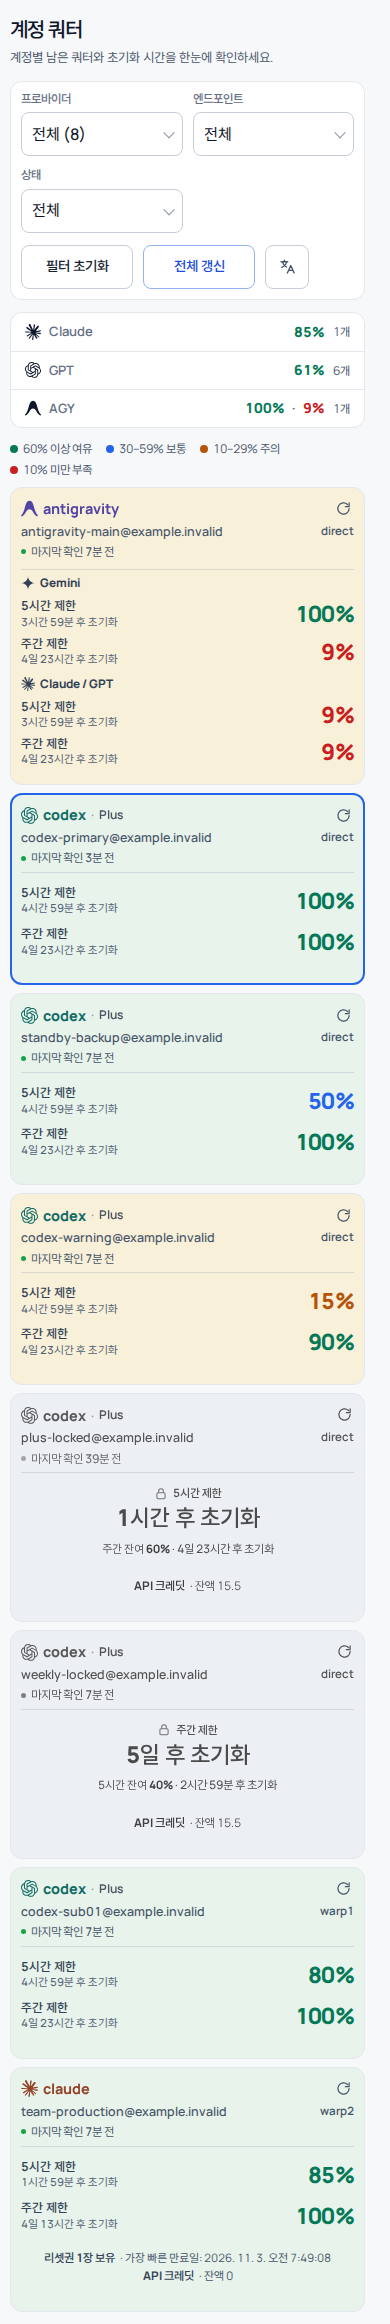
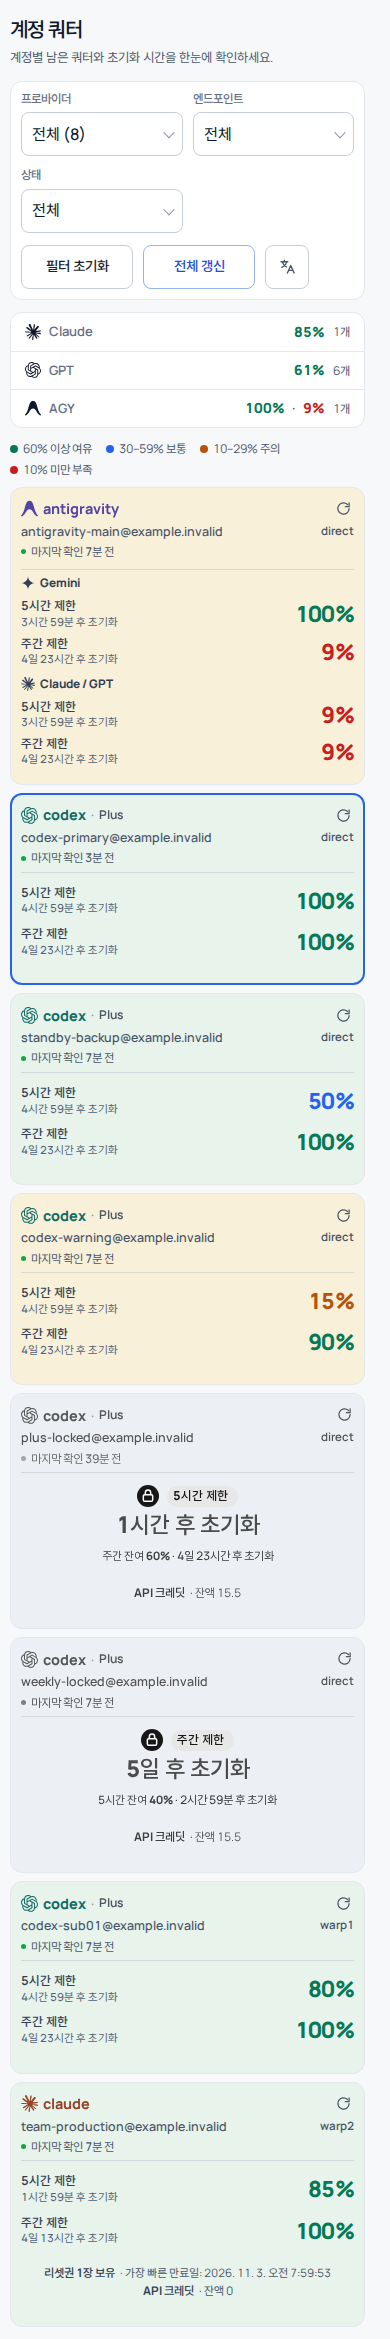
feat(dashboard): padlock badge marks exhausted limits, no repeated provider name
- locked limits show a filled padlock badge + the limit name instead of 'antigravity · weekly limit'
  (the card header already names the provider); only the Claude/GPT section names its family
- antigravity locked badge is red; GPT/Claude locked cards stay grayscale, so their badge is a dark
  padlock that reads as locked without colour
- tests: provider name must not repeat in the visible lock title; padlock badge may be larger than 14px
- README screenshots refreshed

diff --git a/internal/dashboard/style.css b/internal/dashboard/style.css
@@ -611,3 +611,27 @@
   .ag-limit-label, .quota-value-label { grid-column: 1; grid-row: 1; align-self: end; font-size: 0.78rem; font-weight: 650; color: #334155; line-height: 1.25; }
   .ag-limit-reset, .quota-value-reset { grid-column: 1; grid-row: 2; align-self: start; text-align: left; white-space: nowrap; font-size: 0.7rem; line-height: 1.3; }
   .ag-limit-value, .quota-value-number { grid-column: 2; grid-row: 1 / span 2; width: var(--pct-col-w); min-width: 0; font-size: 1.4rem; line-height: 1.3; text-align: right; align-self: center; justify-self: end; }
+
+  /* ===================== Locked state: the padlock is the headline =====================
+     A filled badge (padlock + limit name) tells at a glance that this limit is exhausted. The provider
+     name is not repeated (the card header has it); only the Claude/GPT section names its family. */
+  .ag-family-lock-title, .quota-lock-title { display: inline-flex; align-items: center; justify-content: center; gap: 8px; flex-wrap: wrap; }
+  .ag-family-lock-title .ag-lock-limit, .quota-lock-title > span { display: inline-flex; align-items: center; gap: 6px; padding: 3px 10px 3px 6px; border-radius: 999px; background: #fee2e2; color: #991b1b; font-size: 0.78rem; font-weight: 750; line-height: 1.2; }
+  .ag-family-lock-title .ag-lock-padlock, .quota-lock-title .quota-lock-icon { display: inline-block; width: 16px; height: 16px; padding: 3px; box-sizing: content-box; border-radius: 50%; background: #dc2626; color: #fff; stroke-width: 2.2; flex: 0 0 auto; }
+  .ag-family-lock-title { flex-direction: row; }
+  .ag-family-lock-title .ag-lock-padlock { order: -1; margin-right: -2px; position: relative; z-index: 1; }
+  .ag-family-lock-title .ag-lock-family { display: inline-flex; align-items: center; gap: 4px; color: #475569; font-size: 0.74rem; font-weight: 650; }
+  .ag-family-lock-title .ag-lock-family .ag-family-icon { display: inline-block; width: 13px; height: 13px; }
+  /* GPT/Claude lock: padlock icon sits inside the same red pill */
+  .quota-lock-title .quota-lock-icon { margin-right: 0; }
+  .ag-family-lock-time, .quota-lock-time { margin-top: 2px; }
+
+  /* GPT/Claude locked cards keep their regions grayscale (a CSS filter also greys descendants), so the
+     padlock badge cannot stay red inside them. Instead of loosening that rule, draw the badge colour with
+     a contrast the grayscale cannot hide: a dark filled circle + dark pill with white padlock, which reads
+     as "locked" in gray too, while antigravity (filter-free body) shows the red version. */
+  .account-card[data-locked="true"]:not([data-provider="antigravity"]) .quota-lock-title > span { background: #e2e8f0; color: #0f172a; }
+  .account-card[data-locked="true"]:not([data-provider="antigravity"]) .quota-lock-title .quota-lock-icon { background: #0f172a; color: #fff; }
+  .account-card[data-locked="true"] .quota-lock-time, .account-card[data-locked="true"] .quota-lock-weekly,
+  .account-card[data-locked="true"] .quota-lock-weekly-summary { color: #334155; }
+  .account-card[data-locked="true"]:not([data-provider="antigravity"]) .quota-lock-time { color: #475569; }

diff --git a/internal/dashboard/app.js b/internal/dashboard/app.js
@@ -1828,7 +1828,9 @@ function renderAGFamilySection(family, windows) {
       context = '<div class="ag-family-lock-context" role="group" aria-label="'+esc(shortAria)+'">'+esc(t('q.fiveLeft'))+' <strong>'+esc(shortValue)+'</strong><span aria-hidden="true"> · </span><span class="quota-reset-primary">'+esc(shortCountdown)+'</span></div>';
     }
     var padlockSvg = '<svg class="ag-lock-padlock" viewBox="0 0 24 24" fill="none" stroke="currentColor" stroke-width="1.8" aria-hidden="true"><rect x="5" y="10" width="14" height="10" rx="2"></rect><path d="M8 10V7a4 4 0 0 1 8 0v3"></path></svg>';
-    var lockTitle = padlockSvg+icon+'<span>'+esc(familyLabel)+' · '+limitName+'</span>';
+    // The card header already says "antigravity": repeat the family only for the Claude/GPT section, never the provider name.
+    var lockFamily = family === 'claude' ? '<span class="ag-lock-family">'+icon+'<span>Claude / GPT</span></span>' : '';
+    var lockTitle = padlockSvg+'<span class="ag-lock-limit">'+esc(limitName)+'</span>'+lockFamily;
     return '<section class="ag-family-section is-locked" aria-label="'+esc(sectionAria)+'"><div class="ag-family-lock" role="status" aria-label="'+esc(lockAria)+'">'
       +'<div class="ag-family-lock-title">'+lockTitle+'</div><div class="ag-family-lock-time '+roleClass+'">'+esc(timeText)+'</div>'+context+'</div></section>';
   }

diff --git a/internal/plugin/plugin_test.go b/internal/plugin/plugin_test.go
@@ -2224,9 +2224,11 @@ const lockedWindows = [
 const lockedSection = ctx.renderAGFamilySection('gemini', lockedWindows);
 assert(lockedSection.indexOf('is-locked') !== -1,          'locked: is-locked class');
 assert(lockedSection.indexOf('aria-label="안티그래비티 쿼터"') !== -1, 'locked: aria-label preserved');
-assert(lockedSection.indexOf('>안티그래비티<') !== -1,           'locked: Gemini text node in lock title');
+// The card header already names the provider, so the lock title must NOT repeat it (visible text);
+// the accessible name above still carries it for screen readers.
+assert(lockedSection.indexOf('>안티그래비티<') === -1,           'locked: provider name is not repeated in the visible lock title');
+assert(lockedSection.indexOf('ag-lock-limit') !== -1,        'locked: lock title carries the limit name');
 assert(lockedSection.indexOf('ag-lock-padlock') !== -1,    'locked: padlock uses ag-lock-padlock class');
-assert(lockedSection.indexOf('ag-family-icon') !== -1,     'locked: family icon in lock title');
 assert(/<img/i.test(lockedSection) === false,              'locked: no img tag');
 assert(/https?:\/\//i.test(lockedSection) === false,       'locked: no external URL');
 
